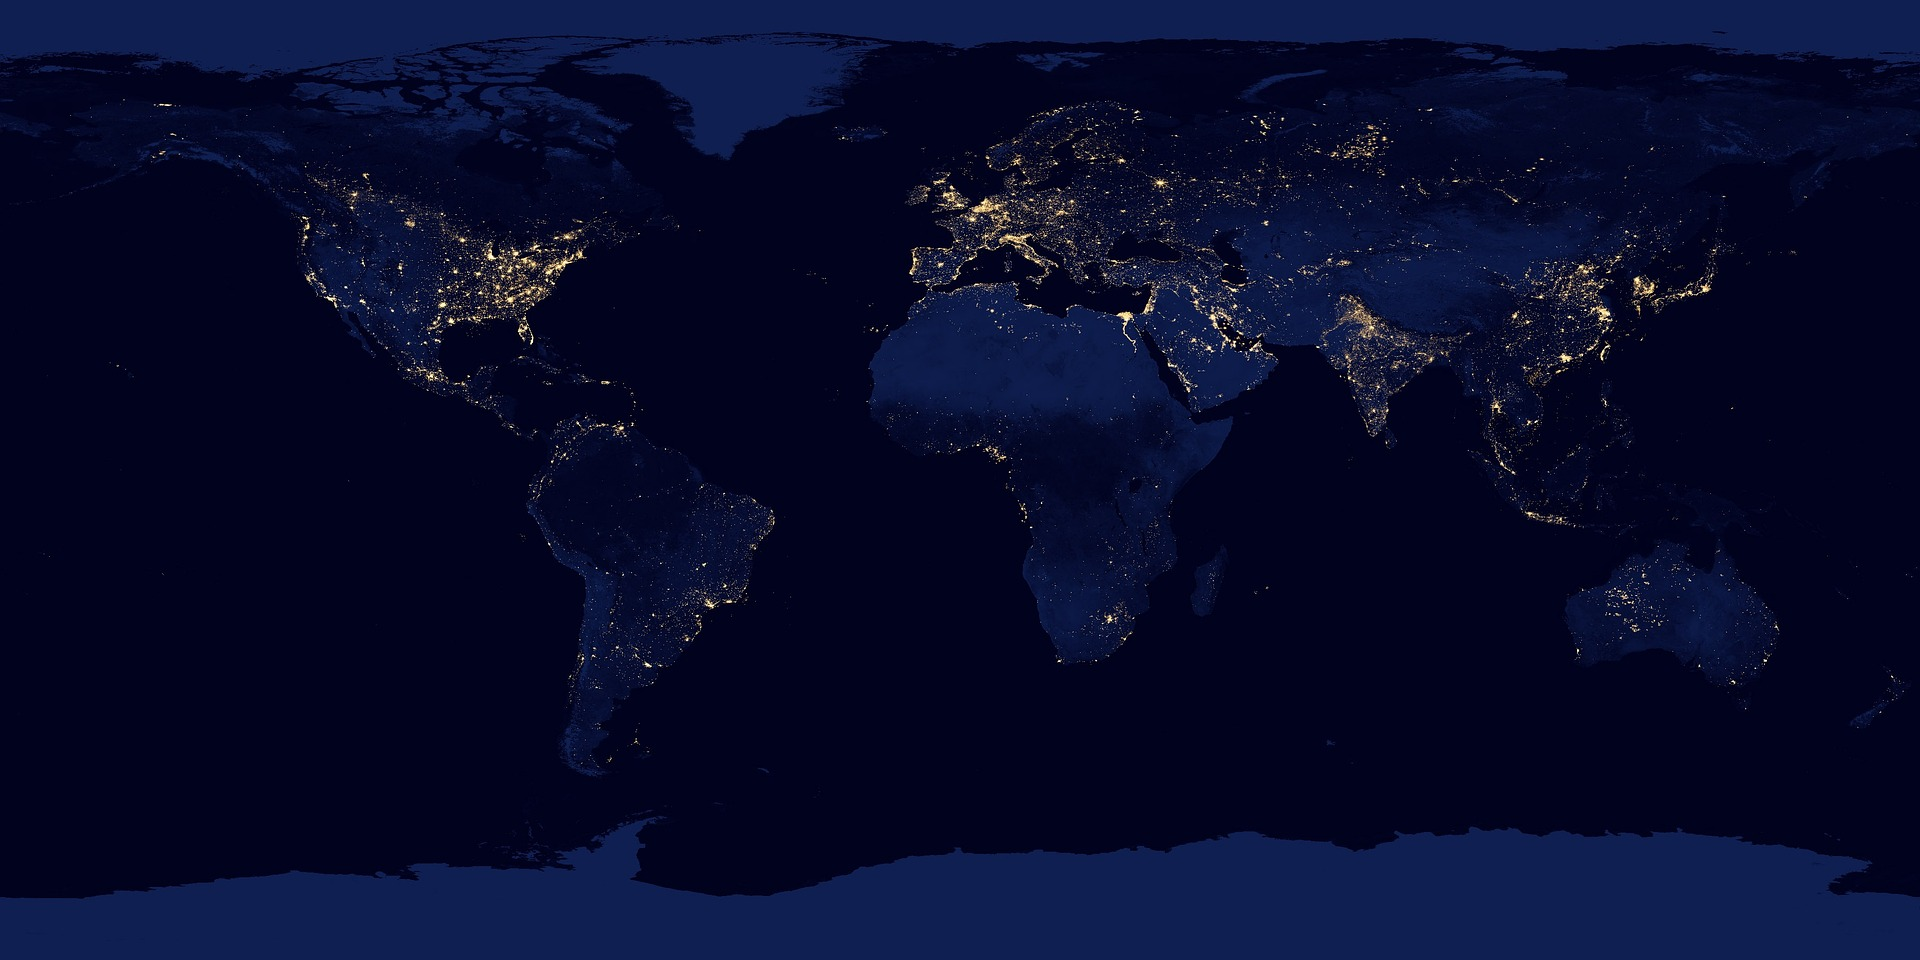
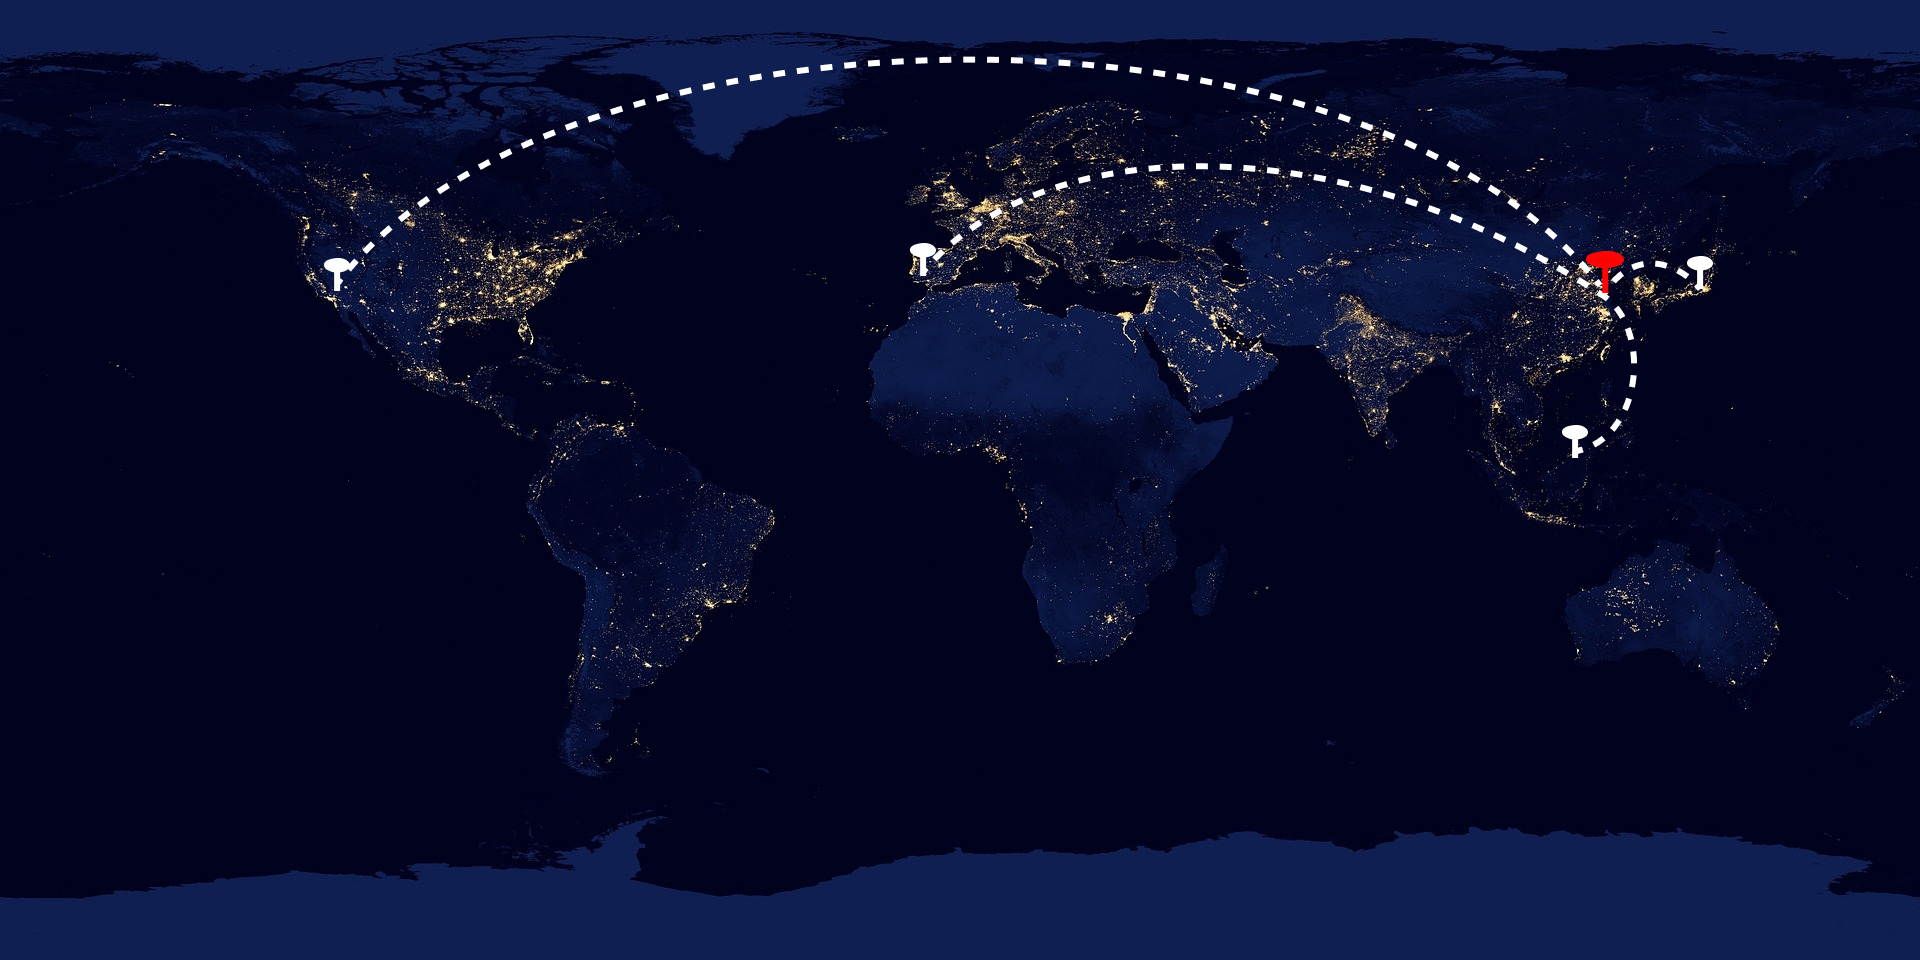
0318 / 20:47

diff --git a/css/contact_us.css b/css/contact_us.css
@@ -267,7 +267,7 @@ textarea {
     position: relative;
 }
 
-.BRUNEI_point {
+/* .BRUNEI_point {
     width: 10px;
     height: 10px;
     border-radius: 50%;
@@ -276,7 +276,7 @@ textarea {
     top: 45%;
     right: 17%;
 }
-
+ */
 
 
 /*----------------------number---------------------------*/
